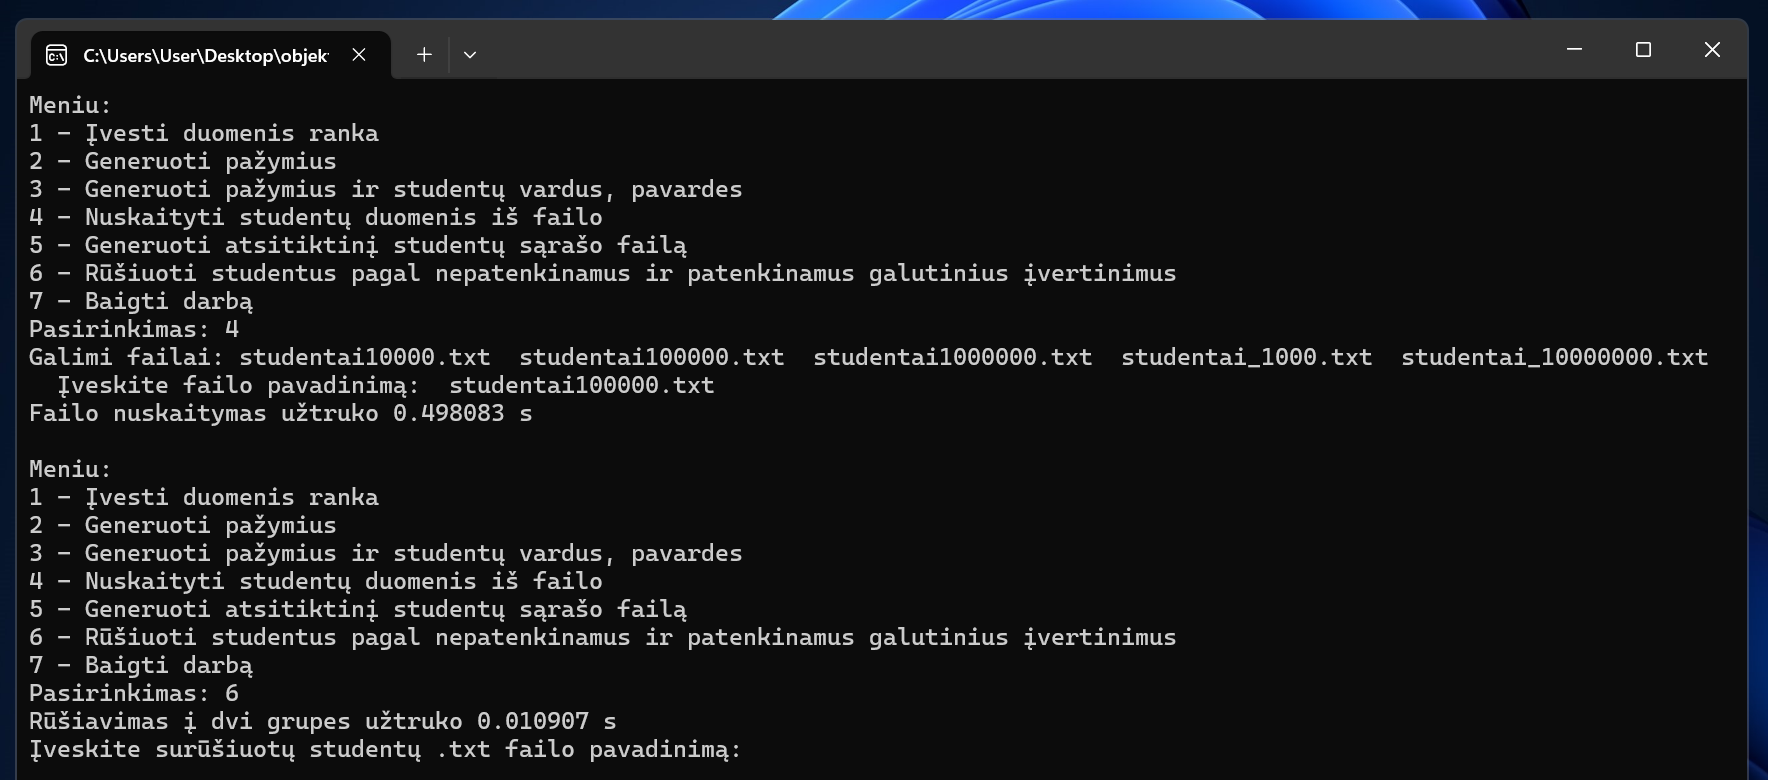
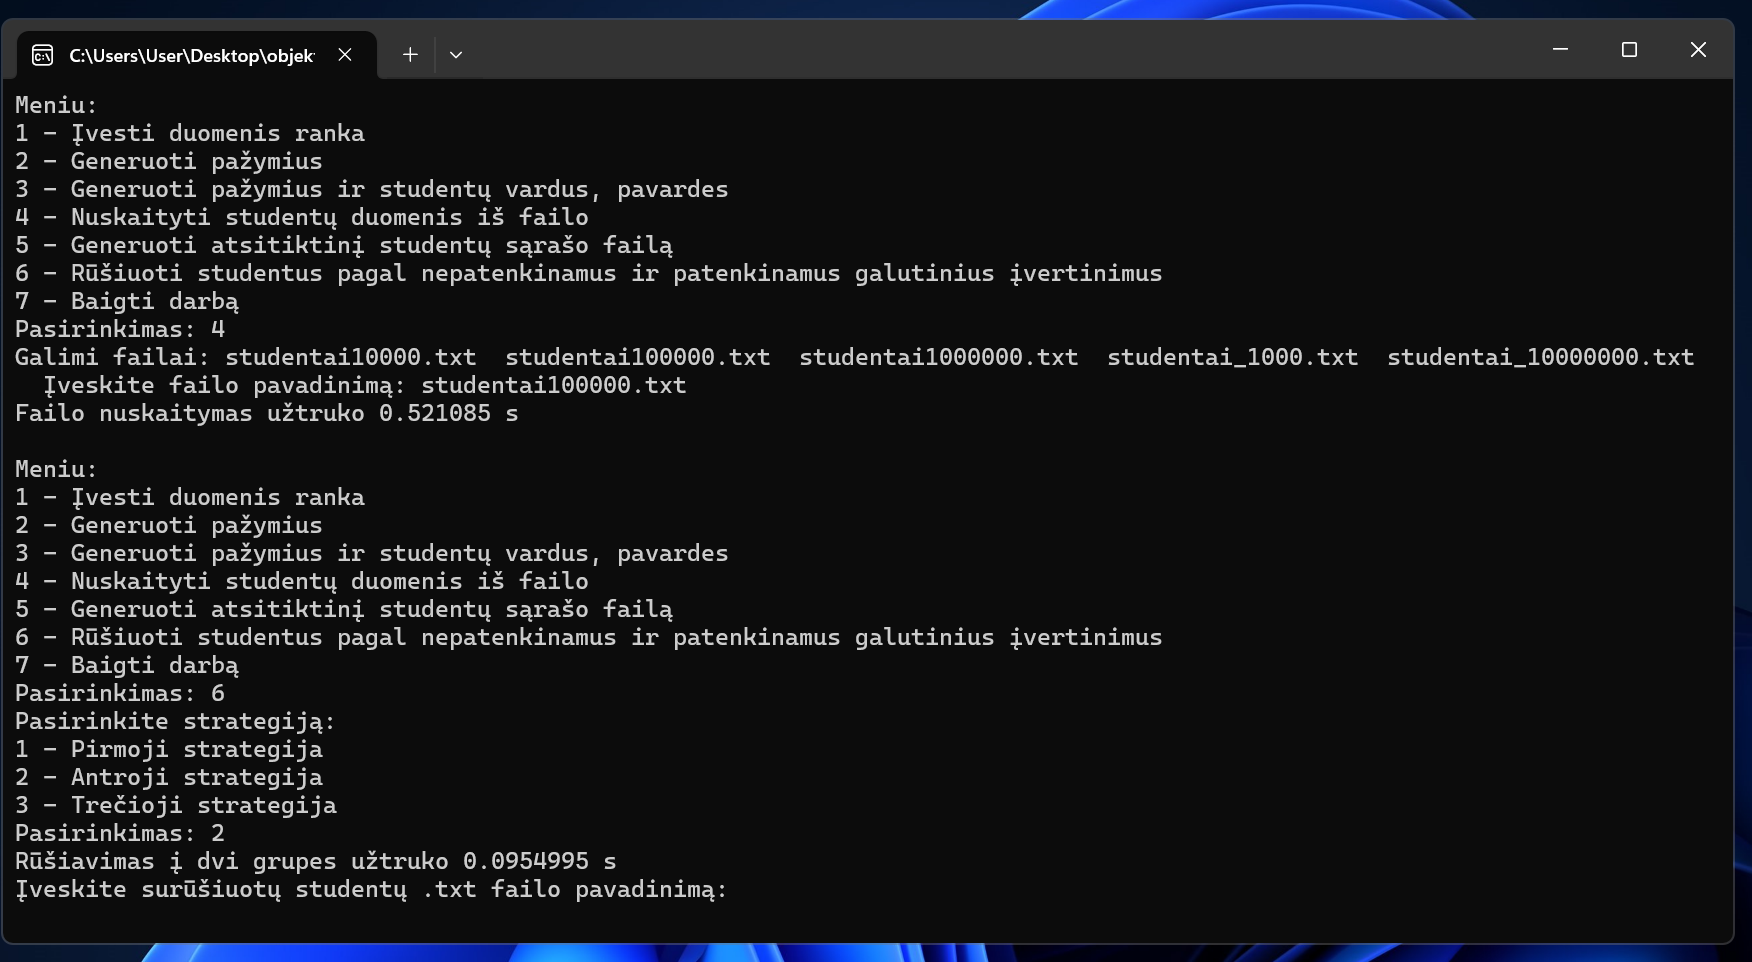
pakoreguota 2-oji strategija
iš pradžių studentai surikiuojami, paskui nuo galo pridedami į vieną naują konteinerį, pašalinant iš pradinio konteinerio. perdaryti tyrimai

diff --git a/deque/main.cpp b/deque/main.cpp
@@ -153,12 +153,14 @@ int main() {
                         break;
                     }
                     case 2: {
-                        for (auto it = studentai.begin(); it != studentai.end();) {
-                            if (it->galutinisVid < 5) {
-                                nepatenkinami.push_back(std::move(*it));
-                                it = studentai.erase(it);
-                            } else {
-                                it++;
+                        rikiuotiStudentus(studentai, 3);
+                        if (!studentai.empty()) {
+                            for (auto it = studentai.end(); it != studentai.begin();) {
+                                --it;
+                                if (it->galutinisVid < 5) {
+                                    nepatenkinami.push_back(std::move(*it));
+                                    it = studentai.erase(it);
+                                }
                             }
                         }
                         break;

diff --git a/list/main.cpp b/list/main.cpp
@@ -153,12 +153,14 @@ int main() {
                         break;
                     }
                     case 2: {
-                        for (auto it = studentai.begin(); it != studentai.end();) {
-                            if (it->galutinisVid < 5) {
-                                nepatenkinami.push_back(std::move(*it));
-                                it = studentai.erase(it);
-                            } else {
-                                it++;
+                        rikiuotiStudentus(studentai, 3);
+                        if (!studentai.empty()) {
+                            for (auto it = studentai.end(); it != studentai.begin();) {
+                                --it;
+                                if (it->galutinisVid < 5) {
+                                    nepatenkinami.push_back(std::move(*it));
+                                    it = studentai.erase(it);
+                                }
                             }
                         }
                         break;

diff --git a/vector/main.cpp b/vector/main.cpp
@@ -154,12 +154,14 @@ int main() {
                         break;
                     }
                     case 2: {
-                        for (auto it = studentai.begin(); it != studentai.end();) {
-                            if (it->galutinisVid < 5) {
-                                nepatenkinami.push_back(std::move(*it));
-                                it = studentai.erase(it);
-                            } else {
-                                it++;
+                        rikiuotiStudentus(studentai, 3);
+                        if (!studentai.empty()) {
+                            for (auto it = studentai.end(); it != studentai.begin();) {
+                                --it;
+                                if (it->galutinisVid < 5) {
+                                    nepatenkinami.push_back(std::move(*it));
+                                    it = studentai.erase(it);
+                                }
                             }
                         }
                         break;

diff --git a/README.md b/README.md
@@ -115,26 +115,22 @@ Testavimas buvo atliktas su failais:
 | studentai_1000000.txt| 2.92201     | 2.68456    | 2.14507    |
 
 ### 2 strategija - tik vienas naujas nepatenkinamų studentų konteineris
- 
+
 | Failas               | std::vector | std::list  | std::deque |
 |----------------------|-------------|------------|------------|
-| studentai_1000.txt   | 0.0160035   | 0.000119   | 0.0064141  |
-| studentai10000.txt   | 1.3132      | 0.0014248  | 0.561508   |
-| studentai100000.txt  | 260.609     | 0.010907   | 62.2927    |
-| studentai1000000.txt | n/a         | 0.108521   | n/a        |
-| studentai_1000000.txt| n/a         | 1.00361    | n/a        |
+| studentai_1000.txt   | 0.0012996   | 0.0006707  | 0.0015146  |
+| studentai10000.txt   | 0.200978    | 0.0067772  | 0.0175728  |
+| studentai100000.txt  | 0.22196     | 0.0954995  | 0.248444   |
+| studentai1000000.txt | 2.58776     | 1.25379    | 3.08339    |
+| studentai_1000000.txt| 36.8585     | 20.8087    | 41.5902    |
 
-`n/a` - užtruko per ilgai.
-
-`std::vector` ir `std::deque` realizacijos buvo ženkliai lėtesnės, o `std::list` net pagreitėjo.
+Visose realizacijose rūšiavimas vyksta lėčiau, tačiau tai yra daug efektyviau atminties naudojimo atžvilgiu.
 
 ### 3 strategija - naudojamos optimizacijos 2-ai strategijai pagerinti
 
-Kadangi 1-osios strategijos `std::vector` ir `std::deque` konteinerių veikimą **pateiktais** algoritmais nelabai būtų galima pagreitinti, pasirinkau optimizuoti 2-ąją strategiją, nes ši iš pradžių buvo itin lėta.
+Kadangi 1-osios strategijos konteinerių veikimą **pateiktais** algoritmais nelabai būtų galima pagreitinti, pasirinkau optimizuoti 2-ąją strategiją, nes ši iš pradžių buvo itin lėta.
 
 Optimizacijai panaudojau `std::partition` algoritmą, kuris su predikatu pertvarko vektoriaus elementus taip, kad patenkinami būtų priekyje, o nepatenkinami gale. Tokiu būdu išvengiama pakartotinų `erase` operacijų, kuri šiems konteineriams yra brangi, nes reikia pertvarkyti visus elementus taip, kad būtų užpildomas naujai atsiradęs tarpas. Taip pat konteinerio elementai yra perkeliami naudojant `std::make_move_iterator`, kad nereikėtų jų kopijuoti.
-
-`std::list` konteineriui taip pat panaudojau `std::partition` algoritmą, tačiau tai nebuvo efektyviau palyginus su 2-ąja strategija.
 
 | Failas               | std::vector | std::list  | std::deque |
 |----------------------|-------------|------------|------------|
